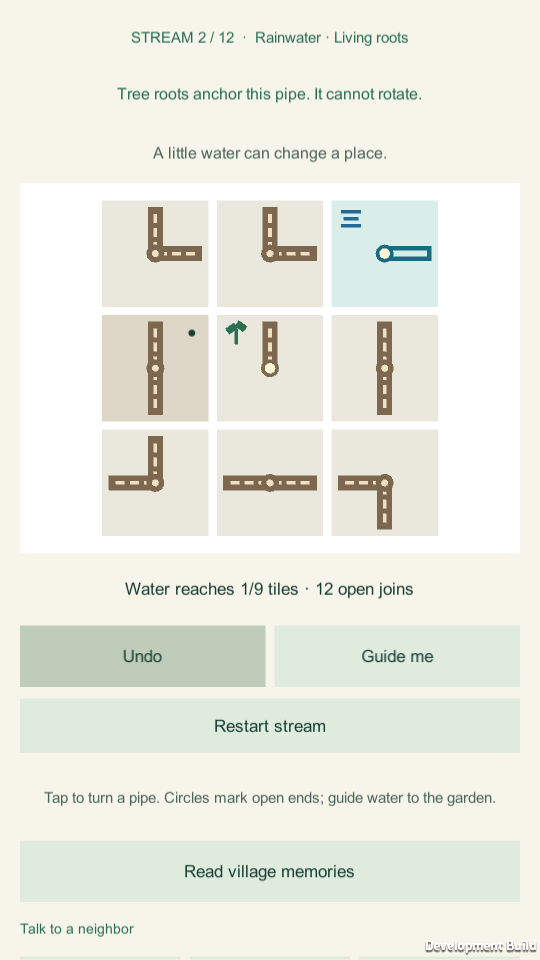
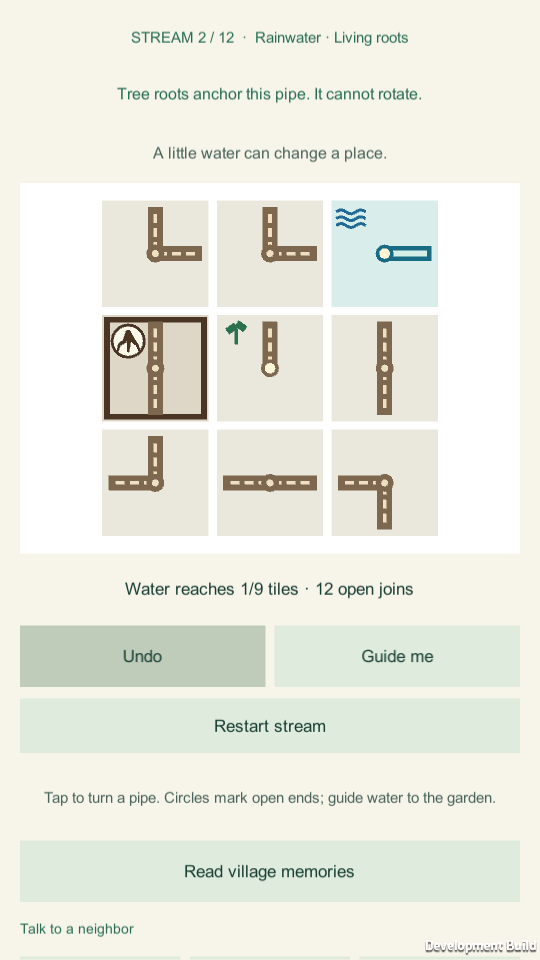
feat(evergrove): unmistakable landmark marker on protected tiles
Protected tiles get a heavy bark frame and a procedural, variant-specific
badge (root tendrils, stone footing under a plank deck, five-petal flower)
drawn by LandmarkGraphic. The badge sits outside every channel arm.
Non-color cues only. Copy unchanged; no new localization keys.

Changed region(s): [[0.1778, 0.3125, 0.3852, 0.4375], [0.6222, 0.2188, 0.6815, 0.25]]

diff --git a/games/evergrove/Assets/Scripts/Unity/LandmarkGraphic.cs b/games/evergrove/Assets/Scripts/Unity/LandmarkGraphic.cs
@@ -1,0 +1,152 @@
+using UnityEngine;
+using UnityEngine.UI;
+
+namespace Evergrove.UnityClient
+{
+    /// <summary>
+    /// Procedural protected-landmark marker: a heavy bark frame around the
+    /// anchored tile plus a variant-specific badge in the top-left corner.
+    /// The badge sits outside every channel arm (arms leave the tile centre
+    /// cardinally), so pipes and endpoint markers keep their geometry. Shape,
+    /// not colour, identifies the choice: roots = tendrils, bridge = deck on
+    /// stone piers, meadow = flower.
+    /// </summary>
+    public sealed class LandmarkGraphic : MaskableGraphic
+    {
+        private const float FrameFraction = 0.055f;
+        private const float BadgeRadiusFraction = 0.165f;
+        private const float BadgeInsetFraction = 0.08f;
+        private const float FrameInset = 1.5f;
+        private const int DiscSegments = 20;
+
+        private int variant = 1;
+
+        /// <summary>1 tree roots, 2 bridge foundation, 3 wildflower sanctuary.</summary>
+        public void Configure(int landmarkVariant)
+        {
+            variant = landmarkVariant;
+            raycastTarget = false;
+            SetVerticesDirty();
+        }
+
+        protected override void OnPopulateMesh(VertexHelper vh)
+        {
+            vh.Clear();
+            Rect area = rectTransform.rect;
+            float m = Mathf.Min(area.width, area.height);
+            if (m <= 0f) return;
+
+            Color32 frame = (Color32)MosseloraTheme.LandmarkFrame;
+            Color32 plate = (Color32)MosseloraTheme.LandmarkPlate;
+
+            float t = Mathf.Max(4f, m * FrameFraction);
+            float l = area.xMin + FrameInset, r = area.xMax - FrameInset;
+            float b = area.yMin + FrameInset, top = area.yMax - FrameInset;
+            AddRect(vh, new Rect(l, top - t, r - l, t), frame);
+            AddRect(vh, new Rect(l, b, r - l, t), frame);
+            AddRect(vh, new Rect(l, b, t, top - b), frame);
+            AddRect(vh, new Rect(r - t, b, t, top - b), frame);
+
+            float radius = m * BadgeRadiusFraction;
+            Vector2 centre = new Vector2(
+                area.xMin + m * BadgeInsetFraction + radius,
+                area.yMax - m * BadgeInsetFraction - radius);
+            AddDisc(vh, centre, radius, frame);
+            AddDisc(vh, centre, radius * 0.84f, plate);
+
+            switch (variant)
+            {
+                case 1: DrawRoots(vh, centre, radius, frame); break;
+                case 2: DrawFoundation(vh, centre, radius, frame); break;
+                default: DrawFlowers(vh, centre, radius, frame, plate); break;
+            }
+        }
+
+        // Tendrils curl outward from a root crown, tapering toward their tips.
+        private static void DrawRoots(VertexHelper vh, Vector2 c, float s, Color32 ink)
+        {
+            AddStroke(vh, c, s, ink,
+                new[] { new Vector2(0f, 0.5f), new Vector2(-0.2f, 0.0f), new Vector2(-0.5f, -0.2f), new Vector2(-0.6f, -0.55f) },
+                new[] { 0.15f, 0.12f, 0.09f, 0.06f });
+            AddStroke(vh, c, s, ink,
+                new[] { new Vector2(0f, 0.5f), new Vector2(0.05f, 0.0f), new Vector2(0.0f, -0.6f) },
+                new[] { 0.15f, 0.12f, 0.06f });
+            AddStroke(vh, c, s, ink,
+                new[] { new Vector2(0f, 0.5f), new Vector2(0.3f, 0.0f), new Vector2(0.5f, -0.2f), new Vector2(0.62f, -0.5f) },
+                new[] { 0.15f, 0.12f, 0.09f, 0.06f });
+        }
+
+        // Stone footing carrying a plank deck: the bridge's protected foundation.
+        private static void DrawFoundation(VertexHelper vh, Vector2 c, float s, Color32 ink)
+        {
+            AddRect(vh, Scaled(c, s, -0.52f, -0.66f, 0.52f, -0.5f), ink);
+            AddRect(vh, Scaled(c, s, -0.46f, -0.5f, -0.18f, 0.08f), ink);
+            AddRect(vh, Scaled(c, s, 0.18f, -0.5f, 0.46f, 0.08f), ink);
+            AddRect(vh, Scaled(c, s, -0.6f, 0.08f, 0.6f, 0.3f), ink);
+        }
+
+        // Five petals around a plate-coloured heart: the wildflower sanctuary.
+        private static void DrawFlowers(VertexHelper vh, Vector2 c, float s, Color32 ink, Color32 plate)
+        {
+            for (int petal = 0; petal < 5; petal++)
+            {
+                float angle = Mathf.PI / 2f + petal * 2f * Mathf.PI / 5f;
+                Vector2 centre = c + new Vector2(Mathf.Cos(angle), Mathf.Sin(angle)) * (s * 0.36f);
+                AddDisc(vh, centre, s * 0.2f, ink);
+            }
+            AddDisc(vh, c, s * 0.16f, plate);
+        }
+
+        private static Rect Scaled(Vector2 c, float s, float x0, float y0, float x1, float y1)
+        {
+            return new Rect(c.x + x0 * s, c.y + y0 * s, (x1 - x0) * s, (y1 - y0) * s);
+        }
+
+        private static void AddStroke(VertexHelper vh, Vector2 c, float s, Color32 shade,
+                                      Vector2[] points, float[] widths)
+        {
+            for (int i = 0; i < points.Length; i++)
+            {
+                Vector2 p = c + points[i] * s;
+                AddDisc(vh, p, widths[i] * s, shade);
+                if (i == points.Length - 1) break;
+                Vector2 q = c + points[i + 1] * s;
+                Vector2 dir = (q - p).normalized;
+                Vector2 normal = new Vector2(-dir.y, dir.x);
+                float wp = widths[i] * s, wq = widths[i + 1] * s;
+                int offset = vh.currentVertCount;
+                vh.AddVert(p - normal * wp, shade, Vector2.zero);
+                vh.AddVert(p + normal * wp, shade, Vector2.up);
+                vh.AddVert(q + normal * wq, shade, Vector2.one);
+                vh.AddVert(q - normal * wq, shade, Vector2.right);
+                vh.AddTriangle(offset, offset + 1, offset + 2);
+                vh.AddTriangle(offset, offset + 2, offset + 3);
+            }
+        }
+
+        private static void AddDisc(VertexHelper vh, Vector2 centre, float radius, Color32 shade)
+        {
+            int start = vh.currentVertCount;
+            vh.AddVert(centre, shade, Vector2.zero);
+            for (int i = 0; i < DiscSegments; i++)
+            {
+                float angle = 2f * Mathf.PI * i / DiscSegments;
+                vh.AddVert(centre + new Vector2(radius * Mathf.Cos(angle), radius * Mathf.Sin(angle)),
+                    shade, Vector2.zero);
+            }
+            for (int i = 0; i < DiscSegments; i++)
+                vh.AddTriangle(start, start + 1 + i, start + 1 + (i + 1) % DiscSegments);
+        }
+
+        private static void AddRect(VertexHelper vh, Rect box, Color32 shade)
+        {
+            int offset = vh.currentVertCount;
+            vh.AddVert(new Vector3(box.xMin, box.yMin), shade, Vector2.zero);
+            vh.AddVert(new Vector3(box.xMin, box.yMax), shade, Vector2.up);
+            vh.AddVert(new Vector3(box.xMax, box.yMax), shade, Vector2.one);
+            vh.AddVert(new Vector3(box.xMax, box.yMin), shade, Vector2.right);
+            vh.AddTriangle(offset, offset + 1, offset + 2);
+            vh.AddTriangle(offset, offset + 2, offset + 3);
+        }
+    }
+}

diff --git a/games/evergrove/Assets/Scripts/Unity/EvergroveApp.cs b/games/evergrove/Assets/Scripts/Unity/EvergroveApp.cs
@@ -803,6 +803,14 @@ namespace Evergrove.UnityClient
                     (index % puzzle.Size + 1) + " " + kind +
                     (puzzle.IsAnchored(index) ? ", protected landmark" : ", tap to turn");
                 // An anchored landmark is always visually distinct, even under hints.
+                if (puzzle.IsAnchored(index))
+                {
+                    // Created before the channel so arms and endpoints draw on top.
+                    var landmarkNode = Node("Protected landmark marker", tileNode.transform);
+                    Fill(landmarkNode.GetComponent<RectTransform>());
+                    landmarkNode.AddComponent<LandmarkGraphic>()
+                        .Configure(Mathf.Clamp(world.BoardVariant, 1, 3));
+                }
                 var pipeNode = Node("Visible channel", tileNode.transform);
                 Fill(pipeNode.GetComponent<RectTransform>());
                 var pipe = pipeNode.AddComponent<PipeGraphic>();
@@ -828,23 +836,6 @@ namespace Evergrove.UnityClient
                 leakText.raycastTarget = false;
                 leakText.text = insight.Leaking[index] ? "○" : "";
                 visibleLeaks[index] = leakText;
-                if (puzzle.IsAnchored(index))
-                {
-                    var badge = Node("Protected landmark marker", tileNode.transform);
-                    RectTransform badgeRect = badge.GetComponent<RectTransform>();
-                    badgeRect.anchorMin = new Vector2(1f, 1f);
-                    badgeRect.anchorMax = new Vector2(1f, 1f);
-                    badgeRect.pivot = new Vector2(1f, 1f);
-                    badgeRect.sizeDelta = new Vector2(22f, 22f);
-                    badgeRect.anchoredPosition = new Vector2(-3f, -3f);
-                    var badgeLabel = badge.AddComponent<Text>();
-                    badgeLabel.font = font;
-                    badgeLabel.fontSize = 14;
-                    badgeLabel.alignment = TextAnchor.MiddleCenter;
-                    badgeLabel.color = Ink;
-                    badgeLabel.raycastTarget = false;
-                    badgeLabel.text = "●";
-                }
                 if (world.HintStep == 2 && index == world.HintTile)
                 {
                     var clueNode = Node("Hint focus marker", tileNode.transform);

diff --git a/games/evergrove/Assets/Scripts/Unity/MosseloraTheme.cs b/games/evergrove/Assets/Scripts/Unity/MosseloraTheme.cs
@@ -27,6 +27,9 @@ namespace Evergrove.UnityClient
         public static readonly Color AnchoredTile = Hex("#F1DEB6");
         public static readonly Color HintRowTile = Hex("#F7E8BB");
         public static readonly Color HintFocusTile = Hex("#E8CB8C");
+        /// <summary>Protected-landmark frame and badge ink: heavy bark brown, high contrast on AnchoredTile.</summary>
+        public static readonly Color LandmarkFrame = Hex("#4A3524");
+        public static readonly Color LandmarkPlate = Hex("#FFF9EC");
 
         private static Color Hex(string html)
         {

diff --git a/games/evergrove/docs/PLAYER_EXPERIENCE.md b/games/evergrove/docs/PLAYER_EXPERIENCE.md
@@ -51,6 +51,7 @@ This is an **implementation map**, not a guarantee everything is visible without
 - **Leak visibility:** unmatched/out-of-bounds water ports also show a per-tile **!** marker, supplementing shape, color and global leak feedback. Phone grayscale/readability test is still open.
 - **Rotatable tile:** tap turns it clockwise by its allowed orientation cycle.
 - **Protected landscape tile:** after chapter one, one non-endpoint tile is fixed, amber/marked and non-interactable. The explanation references roots/foundation/sanctuary.
+  - **Landmark marker (2026-11-23):** the protected tile gets a heavy bark-brown frame plus a badge in its top-left corner, drawn procedurally by `LandmarkGraphic` with no new art. The badge matches the choice: root tendrils (tree), a stone footing under a plank deck (bridge), or a five-petal flower (wildflower sanctuary). The badge sits outside every channel arm, so pipe geometry and endpoint markers stay unchanged. The marker is non-color: frame thickness and badge shape carry the meaning. The text line below the board still reads "…anchor this pipe. It cannot rotate." without naming the marker. **Unverified with players:** the QA screenshots (`docs/qa/mac-player-2026-11-23/tour/07–09`) show the shapes are distinct on a 540×960 frame, but no adult 45+ playtest has confirmed that the marker is noticed unaided.
 - **Solved board:** current water path is complete, no leaks; further rotate is blocked, undo may reopen a previous move.
 - **Choice state:** one tree, crossing, or flower decision and a short promise.
 - **Memory state:** shows the result; **Change your choice** reopens the prior solved puzzle without replaying it.
